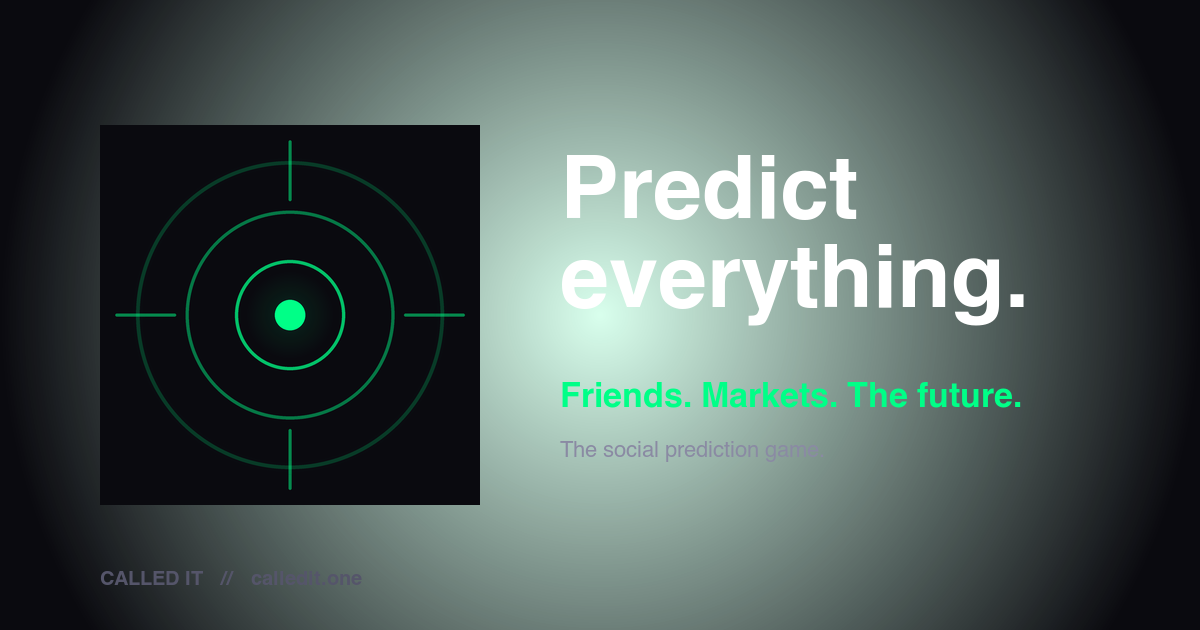
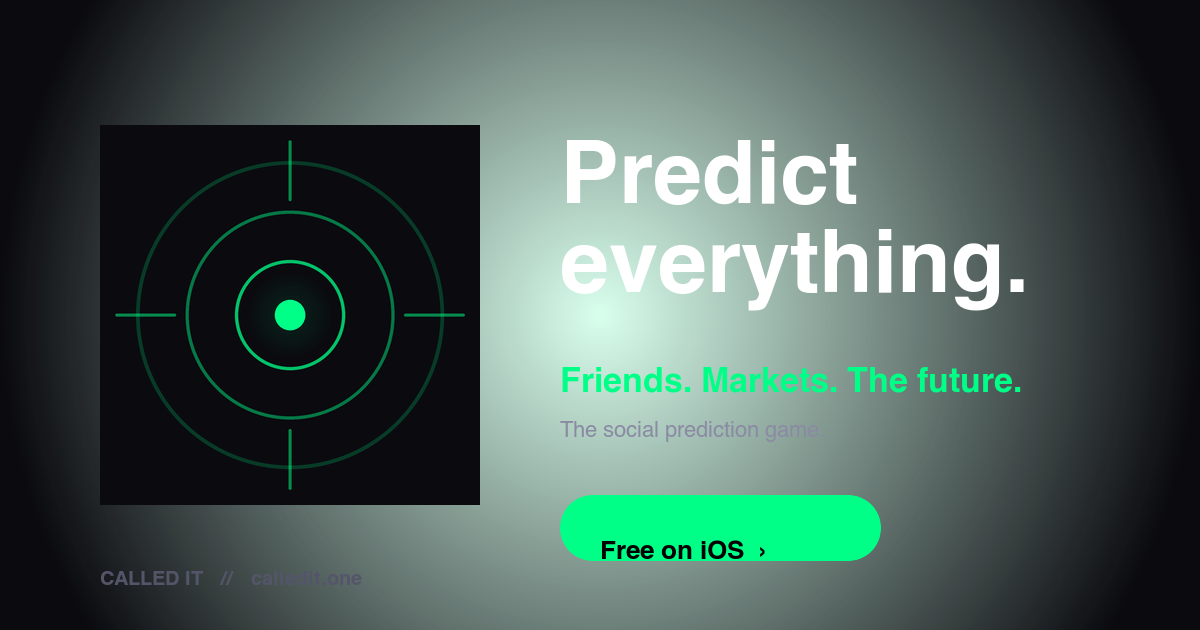
Fix OG preview: longer og:title (61 chars) + CTA badge in OG image
Social-share preview tools flagged og:title as too short (31 chars) and
the OG image as missing a call-to-action. Expanded both titles to ~60
chars and added a "Free on iOS ›" green pill to the image.

Changed region(s): [[0.4625, 0.2111, 0.8633, 0.5127], [0.4625, 0.573, 0.8633, 0.7238], [0.4625, 0.7841, 0.74, 0.9048]]

diff --git a/index.html b/index.html
@@ -17,7 +17,7 @@
 
   <!-- Open Graph -->
   <meta property="og:site_name" content="Called It" />
-  <meta property="og:title" content="Called It — Predict everything." />
+  <meta property="og:title" content="Called It — Predict everything. The social prediction game." />
   <meta property="og:description" content="The social prediction game. Predict your friends, predict the world. Virtual Cred only — not gambling. Free on iOS." />
   <meta property="og:type" content="website" />
   <meta property="og:url" content="https://calledit.one/" />
@@ -29,7 +29,7 @@
 
   <!-- Twitter -->
   <meta name="twitter:card" content="summary_large_image" />
-  <meta name="twitter:title" content="Called It — Predict everything." />
+  <meta name="twitter:title" content="Called It — Predict everything. The social prediction game." />
   <meta name="twitter:description" content="The social prediction game. Predict your friends, predict the world. Virtual Cred only — not gambling." />
   <meta name="twitter:image" content="https://calledit.one/assets/og-image.png" />
   <meta name="twitter:image:alt" content="Called It — The social prediction game." />
